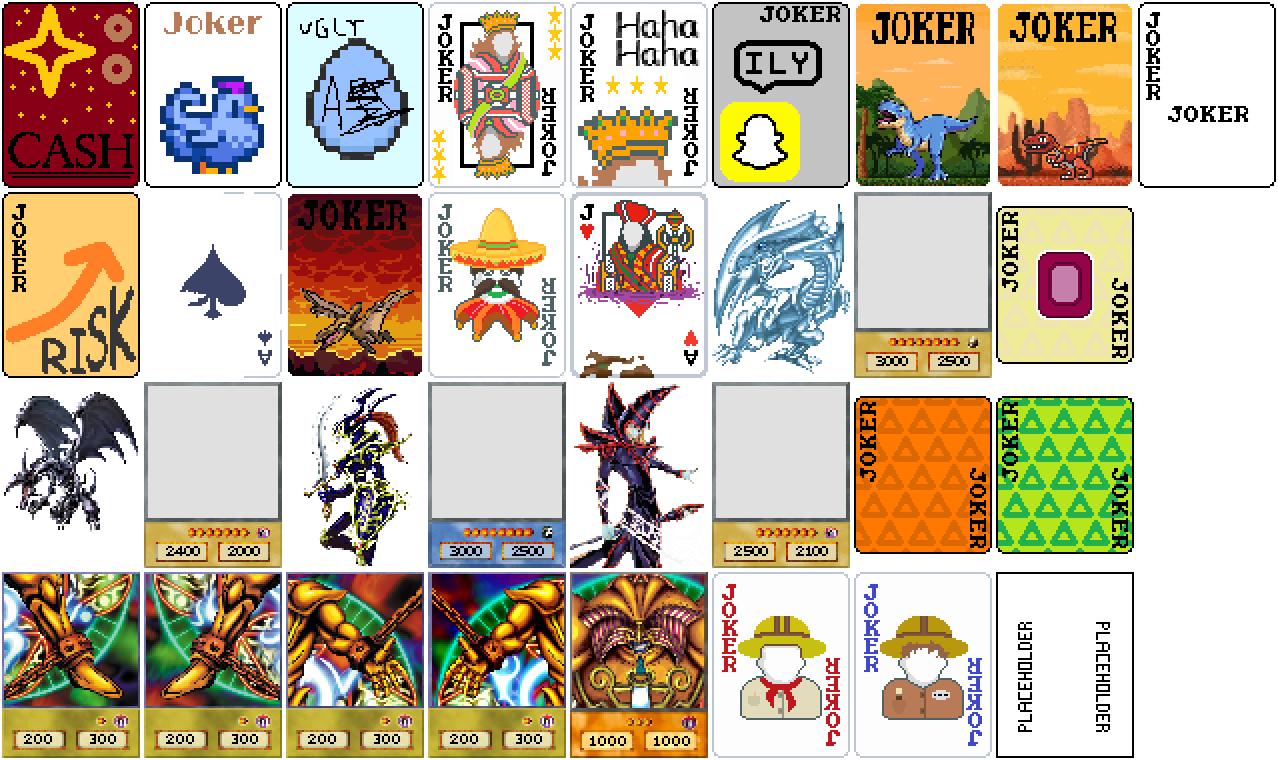
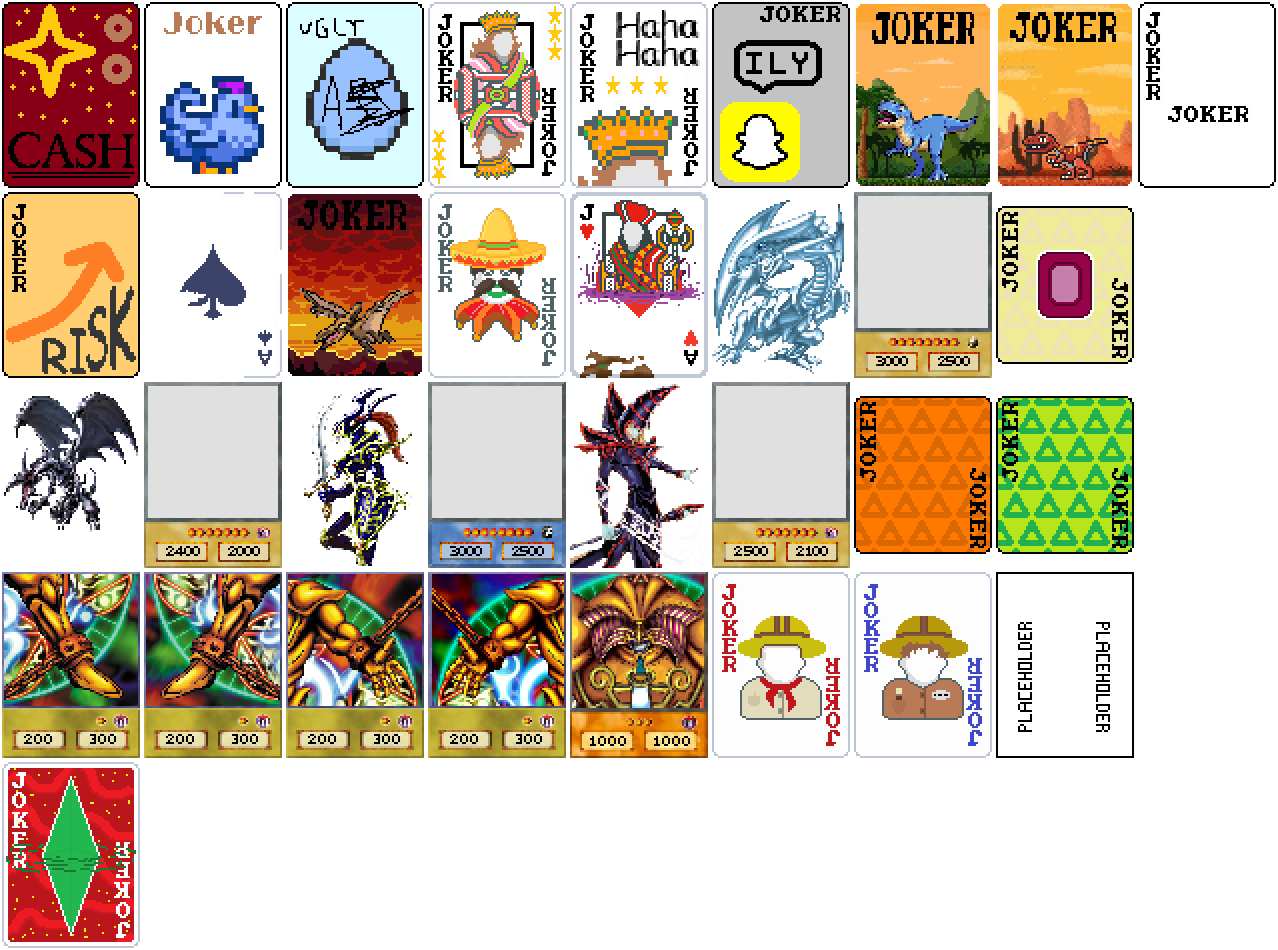
New Joker Crystal of Hungriness

diff --git a/README.md b/README.md
@@ -23,7 +23,7 @@
 <hr>
 <h2>Elements</h2>
 <ul>
-    <li>28+ Jokers</li>
+    <li>29+ Jokers</li>
     <li>23 Foods (+1 Cross-Mod)</li>
     <li>4 Booster Packs</li>
     <li>6+ Enhancements</li>
